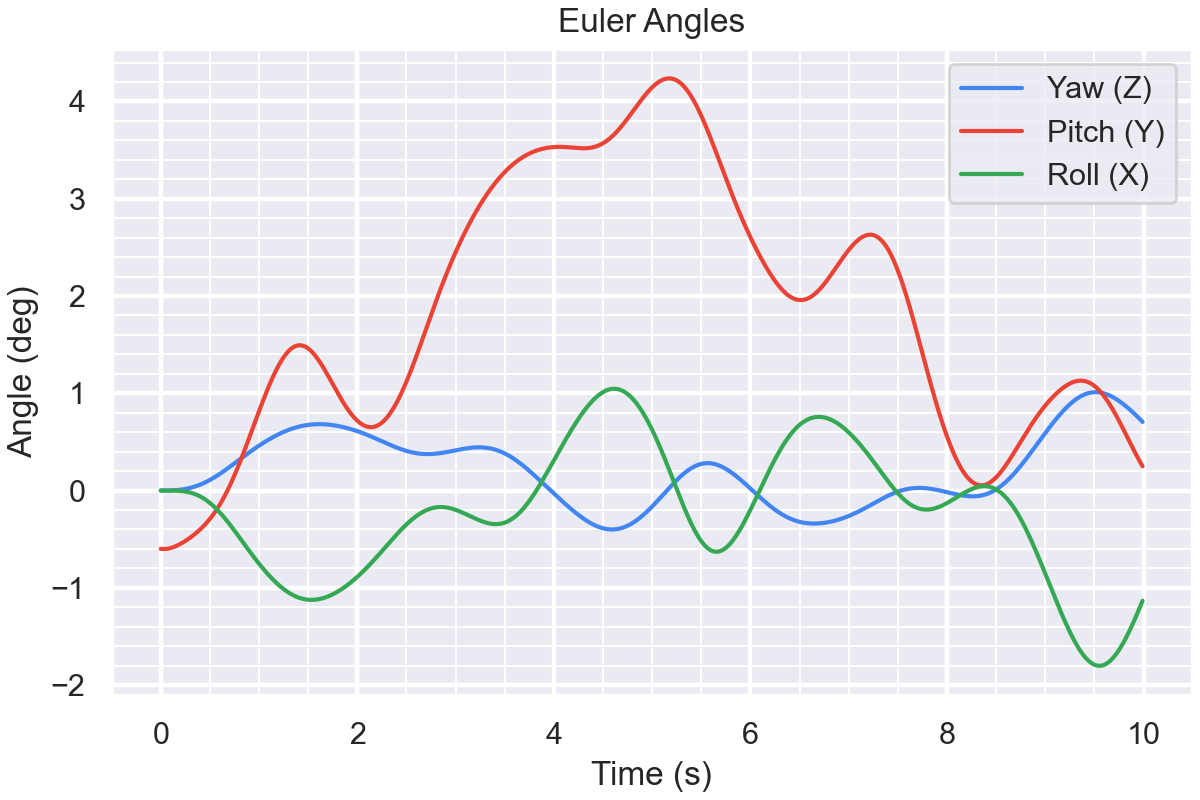
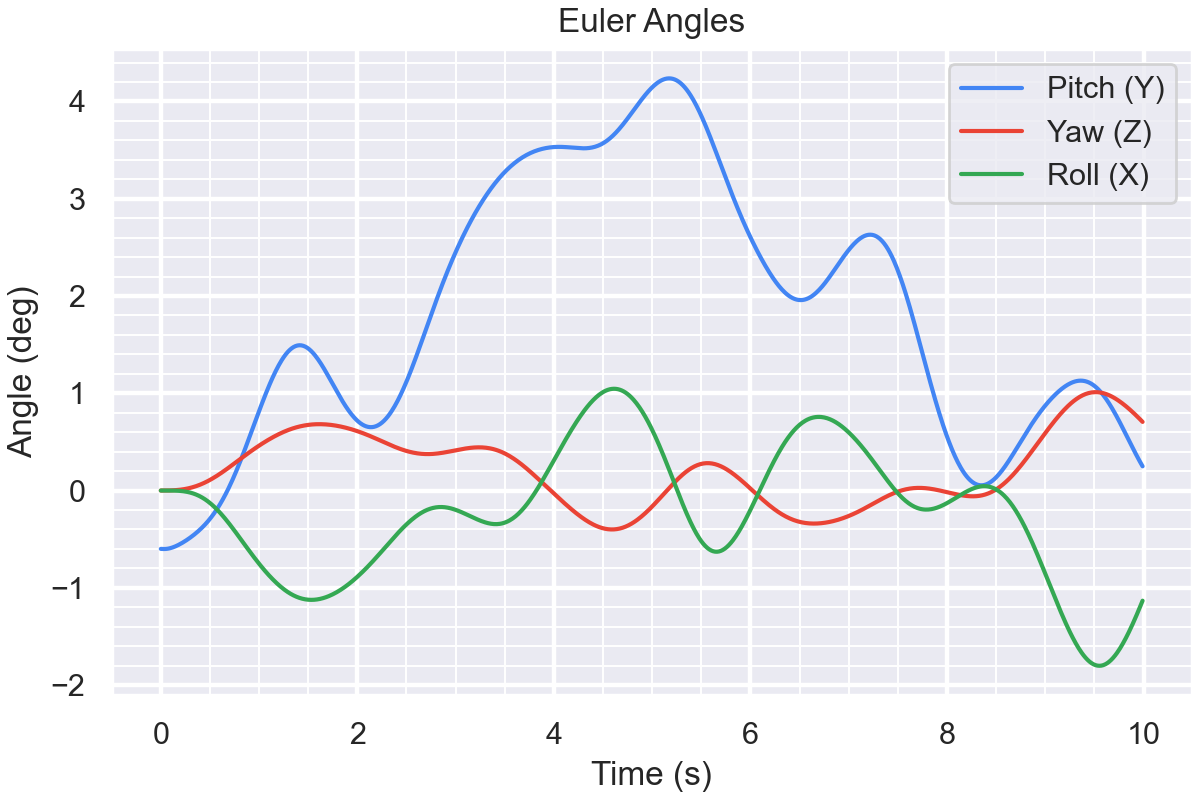
updated image and tags on all posts

diff --git a/content/posts/iron-dome.md b/content/posts/iron-dome.md
@@ -1,0 +1,22 @@
+---
+  title: "Golf Ball UKF Tracker"
+  date: 2023-12-27T12:00:00+06:00
+  featured: false
+  tags: "software"
+  tranding: true
+  readTime: "6 min"
+  thumbnail: /images/blog/iron-dome/iron-dome-thumbnail.png
+  featureImage: /images/blog/iron-dome/iron-dome-thumbnail.png
+  math: true
+---
+
+Recently my parents moved into a beautiful new house directly on a golf course. This is heaven for my Dad who loves golf but there is one major problem of living directly on a golf course: Golf Balls! Unfortunately a few terrible golfers have hit our house as seen in the picture below.
+
+[Add Image Here]
+
+This got me thinking what if I made my own Iron Dome system to defend my house against golf balls? Well, there are two major parts to this problem. This first is tracking and the second is the interception. I focused my energy into the first problem of tracking and simulated it in MATLAB to see if it was possible.
+
+## Tracking Problem
+
+
+

diff --git a/content/posts/ballistic-trajectory-calculator.md b/content/posts/ballistic-trajectory-calculator.md
@@ -2,7 +2,7 @@
   title: "MATLAB Ballistic Trajectory Calculator"
   date: 2023-08-23T12:00:00+06:00
   featured: false
-  tags: "tech"
+  tags: "software"
   tranding: true
   readTime: "4 min"
   thumbnail: /images/blog/ballistic-trajectory-calculator/thumbnail.PNG

diff --git a/content/posts/ares-flight-computer.md b/content/posts/ares-flight-computer.md
@@ -2,7 +2,7 @@
   title: "Ares Flight Computer"
   date: 2023-08-07T12:00:00+06:00
   featured: false
-  tags: "tech"
+  tags: "hardware"
   tranding: true
   readTime: "5 min"
   thumbnail: /images/blog/ares-flight-computer/flight-computer-photo.png

diff --git a/content/posts/starship.md b/content/posts/starship.md
@@ -2,7 +2,7 @@
   title: "Starship Control with LQR"
   date: 2025-12-27T12:00:00+06:00
   featured: false
-  tags: "tech"
+  tags: "software"
   tranding: true
   readTime: "6 min"
   thumbnail: /images/blog/starship/starship_thumbnail.png

diff --git a/content/posts/6-dof-mars-landing.md b/content/posts/6-dof-mars-landing.md
@@ -2,7 +2,7 @@
   title: "Optimal Mars Landing"
   date: 2025-03-03T12:00:00+06:00
   featured: true
-  tags: "tech"
+  tags: "software"
   tranding: true
   readTime: "4 min"
   thumbnail: /images/blog/6-dof-mars-landing/featureImage.png
